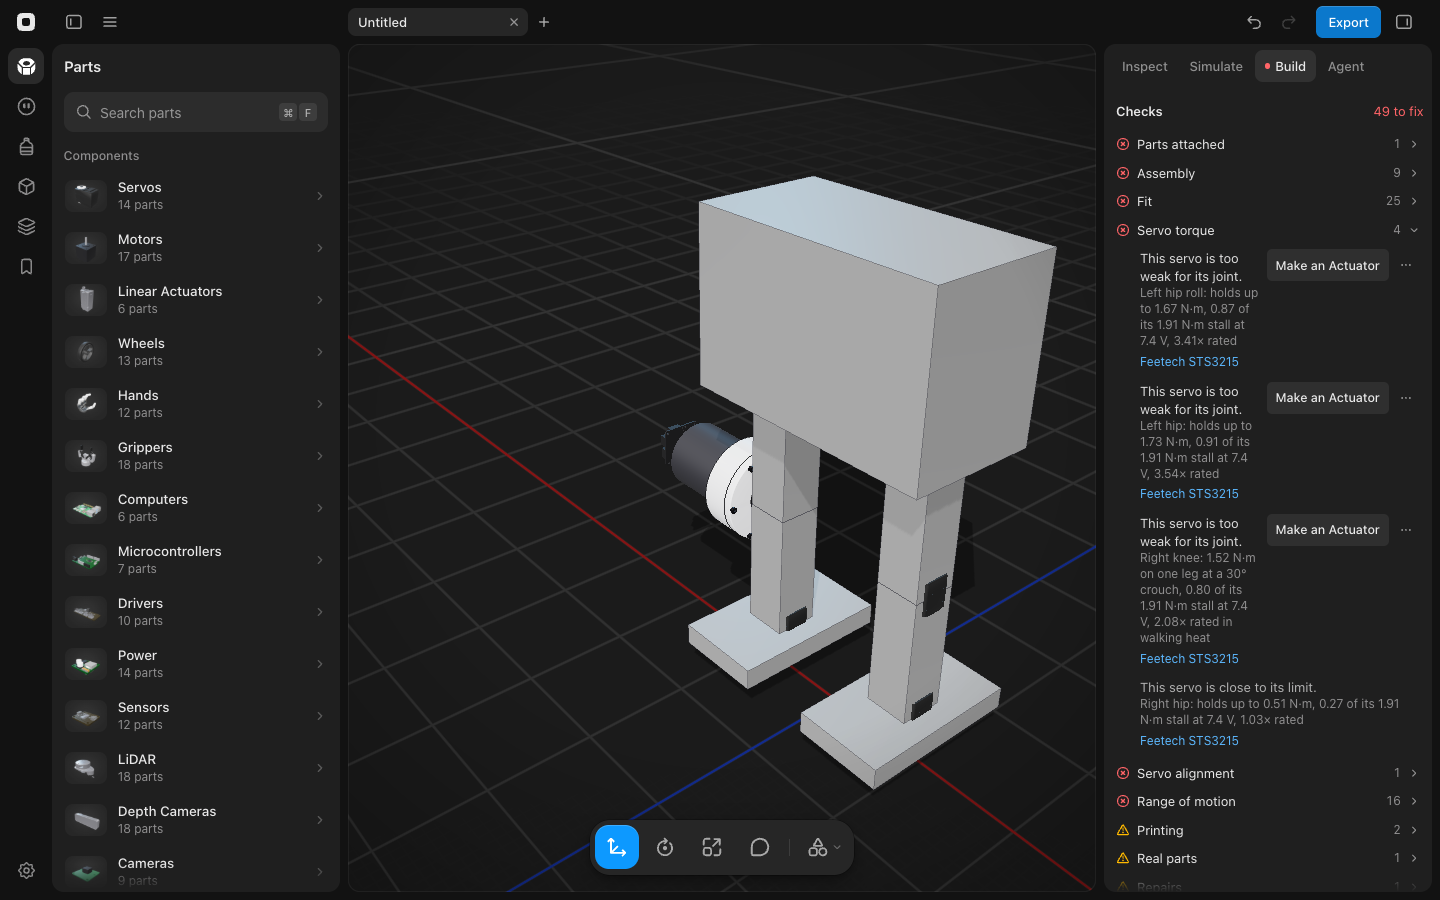
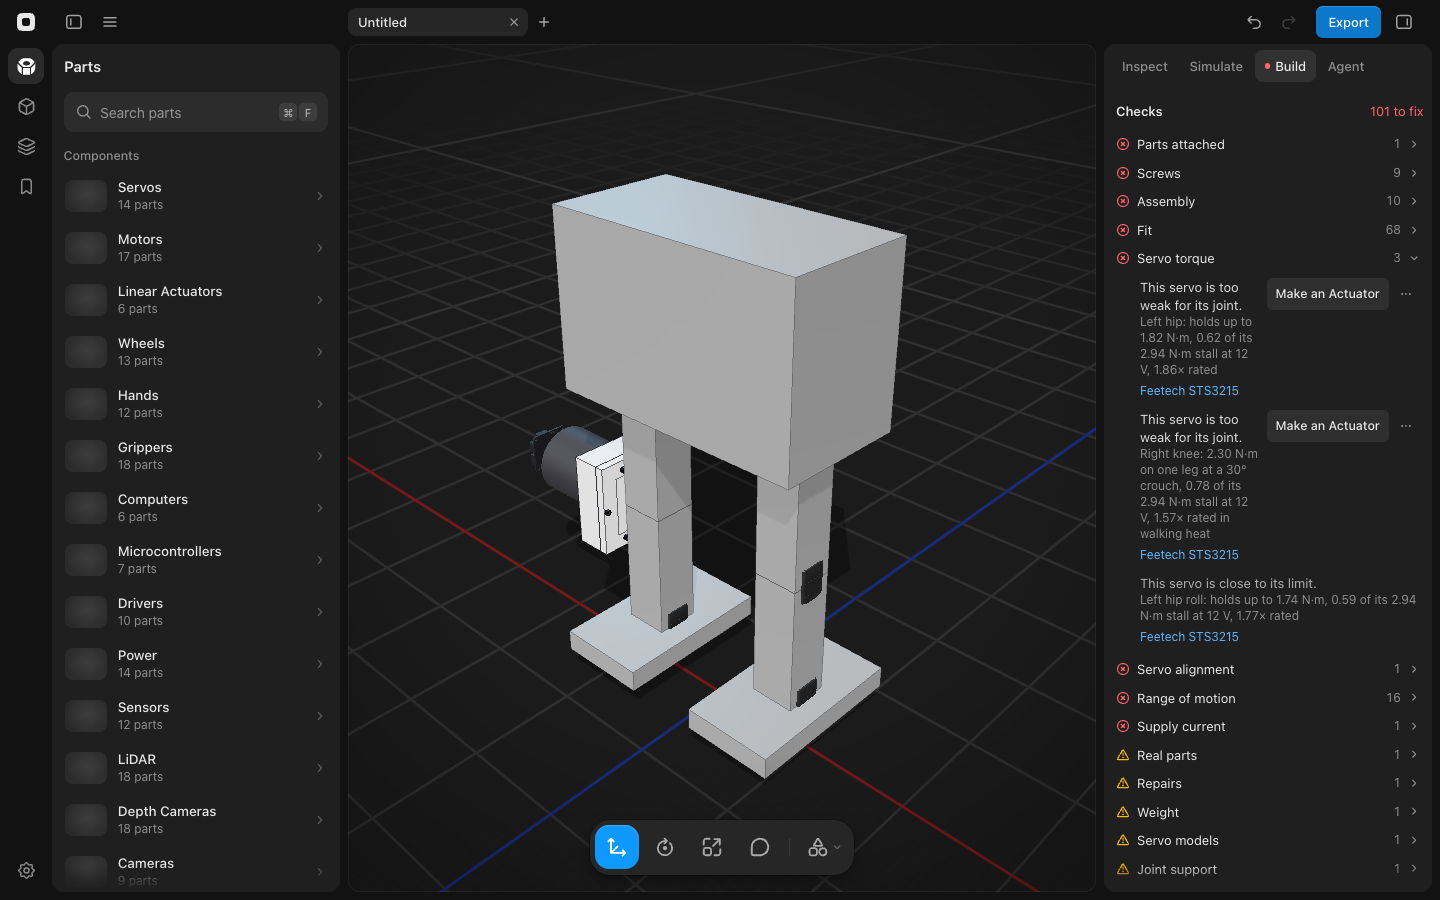
Recapture the actuator screenshot at 12 V and fix the 10:1 rated torque
Review found that the after-actuator screenshot, which is also the changelog
cover, came from an older 7.4 V fixture. It also found the 10:1 moteus-c1 rated
torque printed as 6.94 N·m where cycloidalSpec gives 6.95. Recaptured
actuator.png and cover.png from the 12 V loadedBiped after Make an Actuator on
the left knee. Wrote 6.95 in the help article and the parts-catalog guide. The
hip sentences now say only what both the app and the unit fixture show.
cases.md is back to main's line, and commitDesign is a named const again.
useSceneDocument stays at 120 lines because the one-use restoreJoints is
inlined. Read the 23 help articles the runner flagged against the new code.
All of them still hold.

diff --git a/src/workspace/useSceneDocument.ts b/src/workspace/useSceneDocument.ts
@@ -70,7 +70,6 @@ export function useSceneDocument(seed?: WorkspaceSeed) {
 
   useBooleanResults(doc.parts, docRef, writeDoc);
 
-  const restoreJoints = (joints: RobotJoint[] | undefined) => updateProjectNow((p) => ({ ...p, joints }));
   const tracked = () => trackedOf(projectRef.current);
 
   const settleLiveJoints = (key?: string) => {
@@ -103,7 +102,7 @@ export function useSceneDocument(seed?: WorkspaceSeed) {
 
     writeDoc(pushHistory(d, parts, now));
 
-    if (nextJoints !== joints) restoreJoints(nextJoints);
+    if (nextJoints !== joints) updateProjectNow((p) => ({ ...p, joints: nextJoints }));
 
     lastPoseEditRef.current = 0;
   };
@@ -156,6 +155,9 @@ export function useSceneDocument(seed?: WorkspaceSeed) {
     lastPoseEditRef.current = 0;
   };
 
+  const commitDesign = (parts: ScenePart[], tether: Tether | undefined) =>
+    commitProject({ tether: projectRef.current.tether }, (p) => ({ ...p, tether }), parts);
+
   const commitConsole = (caseId: string, console: CaseConsole | undefined) =>
     commitProject({ consoles: consolesOf(projectRef.current.cases, [caseId]) }, (p) => ({
       ...p,
@@ -192,8 +194,7 @@ export function useSceneDocument(seed?: WorkspaceSeed) {
     commitParts,
     commitMarks,
     commitJoints,
-    commitDesign: (parts: ScenePart[], tether: Tether | undefined) =>
-      commitProject({ tether: projectRef.current.tether }, (p) => ({ ...p, tether }), parts),
+    commitDesign,
     commitProject,
     commitSkeleton: (parts: ScenePart[], skeleton: RobotSkeleton | undefined) =>
       commitProject({ skeleton: projectRef.current.skeleton }, (p) => ({ ...p, skeleton }), parts),

diff --git a/docs/guide/parts-catalog.md b/docs/guide/parts-catalog.md
@@ -34,6 +34,6 @@ Servos, motors, boards and sensors are real products with exact geometry, never 
   - Still without maker CAD (download blocked, behind a sign-in or terms, or never published): ODrive S1 and Micro (Onshape only), Jetson AGX Orin dev kit (NVIDIA sign-in), CANable 2.0, mjbots fdcanusb, Same Sky AMT10 encoders (terms), Omron D2F switches, ATI and Bota F/T sensors, Interlink FSR 402, Keystone 1121 21700 holder, Seeed Round Display for XIAO. Add them only through §8a's pipeline.
   - `tools/parts/generate.mjs` has `battery` (flat, long side along X) and `cell` (on its side along X) poses for packs and cells modeled from their drawings.
 - **Generated actuators** (`src/actuator/`; placed by Make an Actuator, §8b): a printed cycloidal reducer (`cycloidal_drive`, §9 Recipes) on the catalog's one bare BLDC motor, the ODrive D6374 150KV, driven by an mjbots moteus-c1 or moteus r4.11 (`motors.ts` holds their current limits). The motor part carries a version id no catalog entry lists, `cycloidal-<ratio>-<driver>` (`cycloidal-15-moteus-r4`), for ratios 10, 12, 15 and 20. `componentVariant` falls back to `cycloidalVariant` (`generated.ts`), which builds the version's label, part number and `ActuatorSpec` from the id, so `actuatorOf`, Checks, the BOM, the MJCF writer and Forge read it like any version, and a saved scene reloads with the same spec.
-  - The spec is an estimate, and its `source` says so: peak torque = Kt (8.27 / Kv, 0.055 N·m/A at 150 Kv) × the lower of the motor's 90 A and the driver's peak × ratio × 0.9; rated torque uses the motor's 50 A and the driver's continuous current; speed = Kv × 24 V / ratio; `armature` = rotor inertia × ratio². ODrive doesn't publish the D6374's rotor inertia, so 1.1 × 10⁻⁴ kg·m² stands in (a similar 63 mm outrunner measures 1.06 × 10⁻⁴). 10:1 on a moteus-c1 gives 9.92 N·m peak, 6.94 N·m rated and 360 rpm; 15:1 on a moteus r4.11 gives 66.99 N·m, 23.82 N·m, 240 rpm and 0.02475 kg·m²; 20:1 on the r4.11 peaks at 89.32 N·m.
+  - The spec is an estimate, and its `source` says so: peak torque = Kt (8.27 / Kv, 0.055 N·m/A at 150 Kv) × the lower of the motor's 90 A and the driver's peak × ratio × 0.9; rated torque uses the motor's 50 A and the driver's continuous current; speed = Kv × 24 V / ratio; `armature` = rotor inertia × ratio². ODrive doesn't publish the D6374's rotor inertia, so 1.1 × 10⁻⁴ kg·m² stands in (a similar 63 mm outrunner measures 1.06 × 10⁻⁴). 10:1 on a moteus-c1 gives 9.92 N·m peak, 6.95 N·m rated and 360 rpm; 15:1 on a moteus r4.11 gives 66.99 N·m, 23.82 N·m, 240 rpm and 0.02475 kg·m²; 20:1 on the r4.11 peaks at 89.32 N·m.
   - The reducer (`cycloidal.ts`, design math and sampled interference checks): lobes = ratio, ring pins = ratio + 1, fixed in the housing; two discs 180° apart with 0.15 mm print clearance to the pins; 6 output pins take the output from the discs, so it turns once per `ratio` input turns. The housing is about 85 mm across and 35 mm from the motor face to the output face; with the motor and driver the actuator is about 120 mm long. One motor means it's oversized for small robots, and the printed reducer has no measured backlash or efficiency.
 - Estimated generic parts (servo, stepper, board, camera, ultrasonic, hinge, linear actuator, L/U-brackets, beam, standoff, gripper, wheel, bearing block) live in `BLOCKOUT_ONLY`: the agent can block out with them and old scenes still render them, but Parts never lists them. Add a part to Parts only when its geometry is exact.

diff --git a/docs/guide/cases.md b/docs/guide/cases.md
@@ -56,7 +56,7 @@ Two versions of a robot, say one per gripper, are compared on the same Case: dup
 - **Runs:** `exploreCase` (`src/cases/explore.ts`) builds each design with `designScene` (the parts with their `componentVariant` swapped, and on a tethered robot a `tether` at the design's volts when the supply wouldn't already be that) and calls `runs` with the design's `servoVolts` (§8d: every servo rated at that voltage). In the app that's `exploreVerdict` (`src/workspace/caseChecks.ts`): a `model` job, then `EXPLORE_RUNS` (8) seeded runs batched across the Case workers with the reference controller, with an empty tag so a Checks rerun's `keepOnly` never drops them, and no verdict or model cache, so a sweep never pushes the Checks rows out. Designs run one after another; Stop (or a newer Explore, or the agent's) stops before the next design. `CaseRuns.worstMargin` is the lowest margin of the runs.
 - **Cost and mass** per design are `robotTotals` (§ Comparing two robots): `buildBom` and the Weight check's `robotWeight`.
 - **Results** (`ExploreRows.tsx`) shows a header to sort by Passes (the default, highest first), Cost or Weight (`sortRows` in `src/cases/exploreSort.ts`, ties broken by the other two, then the run order), then one row per design: its label (`designLabel`: the changed joints and the variant's short name, `All` when every group changed, and the volts when they changed; the first design's row carries the scene's name), passes of 8 or the stop's words, cost and mass, and a progress bar while it runs. The row whose design matches the scene now (`sceneDesign`) is in the accent and has no Apply.
-- **Apply** (on a row's hover) commits the swapped parts and the tether in one history step through `commitProject` (`useSceneDocument`). A snapshot that carries `tether` restores it on undo and redo; other steps leave the tether alone, since tether edits in Build aren't history steps.
+- **Apply** (on a row's hover) calls `commitDesign` (`useSceneDocument`): the swapped parts and the tether in one history step. A snapshot that carries `tether` restores it on undo and redo; other steps leave the tether alone, since tether edits in Build aren't history steps.
 - **Reruns:** nothing is saved. `useCaseExplore` keys its rows to the Case's hash and `exploreBase`, the readiness fingerprint of the parts with the explored servos' variants blanked, so applying a row or undoing it keeps the rows, and any other edit hides them.
 - **Agent:** `explore_case` returns the same rows (§9).
 - **Tests** (`src/cases/explore.test.ts`, on `servoArm` in `src/sim/fixtures/servoArm.ts`: `arm-3dof` with an STS3215 per joint, C001 at the shoulder and C044 beyond, and a 500 g hand): the space and its 7.4 V and 12 V; 64 designs, the current first, the same every time, no C001 at 12 V; `designScene` and `sceneDesign` round trip and pin a tether when the suggestion would differ; the arm as built passes Touch the Dots 8 of 8 and a C046 shoulder passes fewer, with cost and mass equal to `buildBom` and `robotWeight`; Stop. `agentCaseRequests.test.ts` checks `explore_case`'s reply and refusals. `e2e/explore.e2e.test.ts` loads the servo arm with Touch the Dots, limits Explore to 2 designs through `__studio.exploreLimit`, runs it from ⌘K, applies the other row, sees the BOM lose its C044 line, and undoes it with ⌘Z.

diff --git a/site/content/help/make-an-actuator.md b/site/content/help/make-an-actuator.md
@@ -37,7 +37,7 @@ Make an Actuator is in the desktop app only. Every actuator is built around one 
 
 3. On the joint's item, click **Make an Actuator**.
 
-   ![A box biped with the actuator on its left knee, outside the leg, and Servo torque now listing the left hip roll, left hip and right knee](/help/make-an-actuator/actuator.png)
+   ![A box biped with the actuator on its left knee, outside the leg, and Servo torque now listing the left hip, right knee and left hip roll](/help/make-an-actuator/actuator.png)
 
 The joint's servo is replaced by the motor, a reducer of six printed parts, and an mjbots moteus driver behind the motor. An AS5600 encoder board sits on the cover, and the bearings, screws and heat-set inserts come with it. The actuator sits on the joint's axis, outside the link it turns, with its output facing that link. Press [[⌘Z]] to put the servo back in one step.
 
@@ -49,9 +49,9 @@ Basecase picks the lowest gear ratio of 10:1, 12:1, 15:1 or 20:1, then the small
 
 When nothing fits, the item says why instead: the housing is wider than the bed, the supply is outside 10–48 V, or even the strongest actuator stalls below the load. Making an actuator again on the same joint replaces the old one.
 
-The torque is an estimate from the motor's current limits and the ratio, not a measurement. A 10:1 actuator on a moteus-c1 gives 9.92 N·m peak and 6.94 N·m rated, at 360 rpm on 24 V. The simulation uses the same peak torque, and the motor's inertia through the gears.
+The torque is an estimate from the motor's current limits and the ratio, not a measurement. A 10:1 actuator on a moteus-c1 gives 9.92 N·m peak and 6.95 N·m rated, at 360 rpm on 24 V. The simulation uses the same peak torque, and the motor's inertia through the gears.
 
-The extra weight moves the problem up the leg. On a long-legged biped with 12 V STS3215 servos and a 5.5 kg body, the left knee needs 1.96 N·m, 0.67 of the servo's stall, so it fails. A 10:1 actuator makes the knee pass. Then the hip and hip roll servos above it fail, and **Supply current** asks for about 21 A from the 10 A supply.
+The extra weight moves the problem up the leg. On a long-legged biped with 12 V STS3215 servos and a 5.5 kg body, the left knee needs 1.96 N·m, 0.67 of the servo's stall, so it fails. A 10:1 actuator makes the knee pass. Then the left hip servo above it fails, and **Supply current** asks for about 21 A from the 10 A supply.
 
 The driver and encoder aren't fastened to anything, and the housing needs a bracket to the link above it. **Parts attached** lists them until they're fastened.
 

diff --git a/site/content/changelog/2026-11-13-make-an-actuator.md b/site/content/changelog/2026-11-13-make-an-actuator.md
@@ -12,6 +12,6 @@ The actuator is an ODrive D6374 brushless motor under a reducer of six printed p
 
 It lands on the joint's axis in one undo step. The motor, driver, bearings and screws go on the bill of materials, and the printed parts on plates. The simulation reads its peak torque and its motor's inertia through the gears. The agent's `make_actuator` tool does the same.
 
-The torque is an estimate from the motor's and driver's current limits. We haven't printed the reducer and measured its backlash or efficiency. Every actuator uses the same 890 g motor, so it adds about 1 kg. On the biped, the hips above the knee then fail. The driver and encoder aren't fastened to anything, and the housing needs a bracket to the link above.
+The torque is an estimate from the motor's and driver's current limits. We haven't printed the reducer and measured its backlash or efficiency. Every actuator uses the same 890 g motor, so it adds about 1 kg. On the biped, the hip servo above the knee then fails. The driver and encoder aren't fastened to anything, and the housing needs a bracket to the link above.
 
 Steps are in [Make an actuator for a joint](/help/make-an-actuator).
